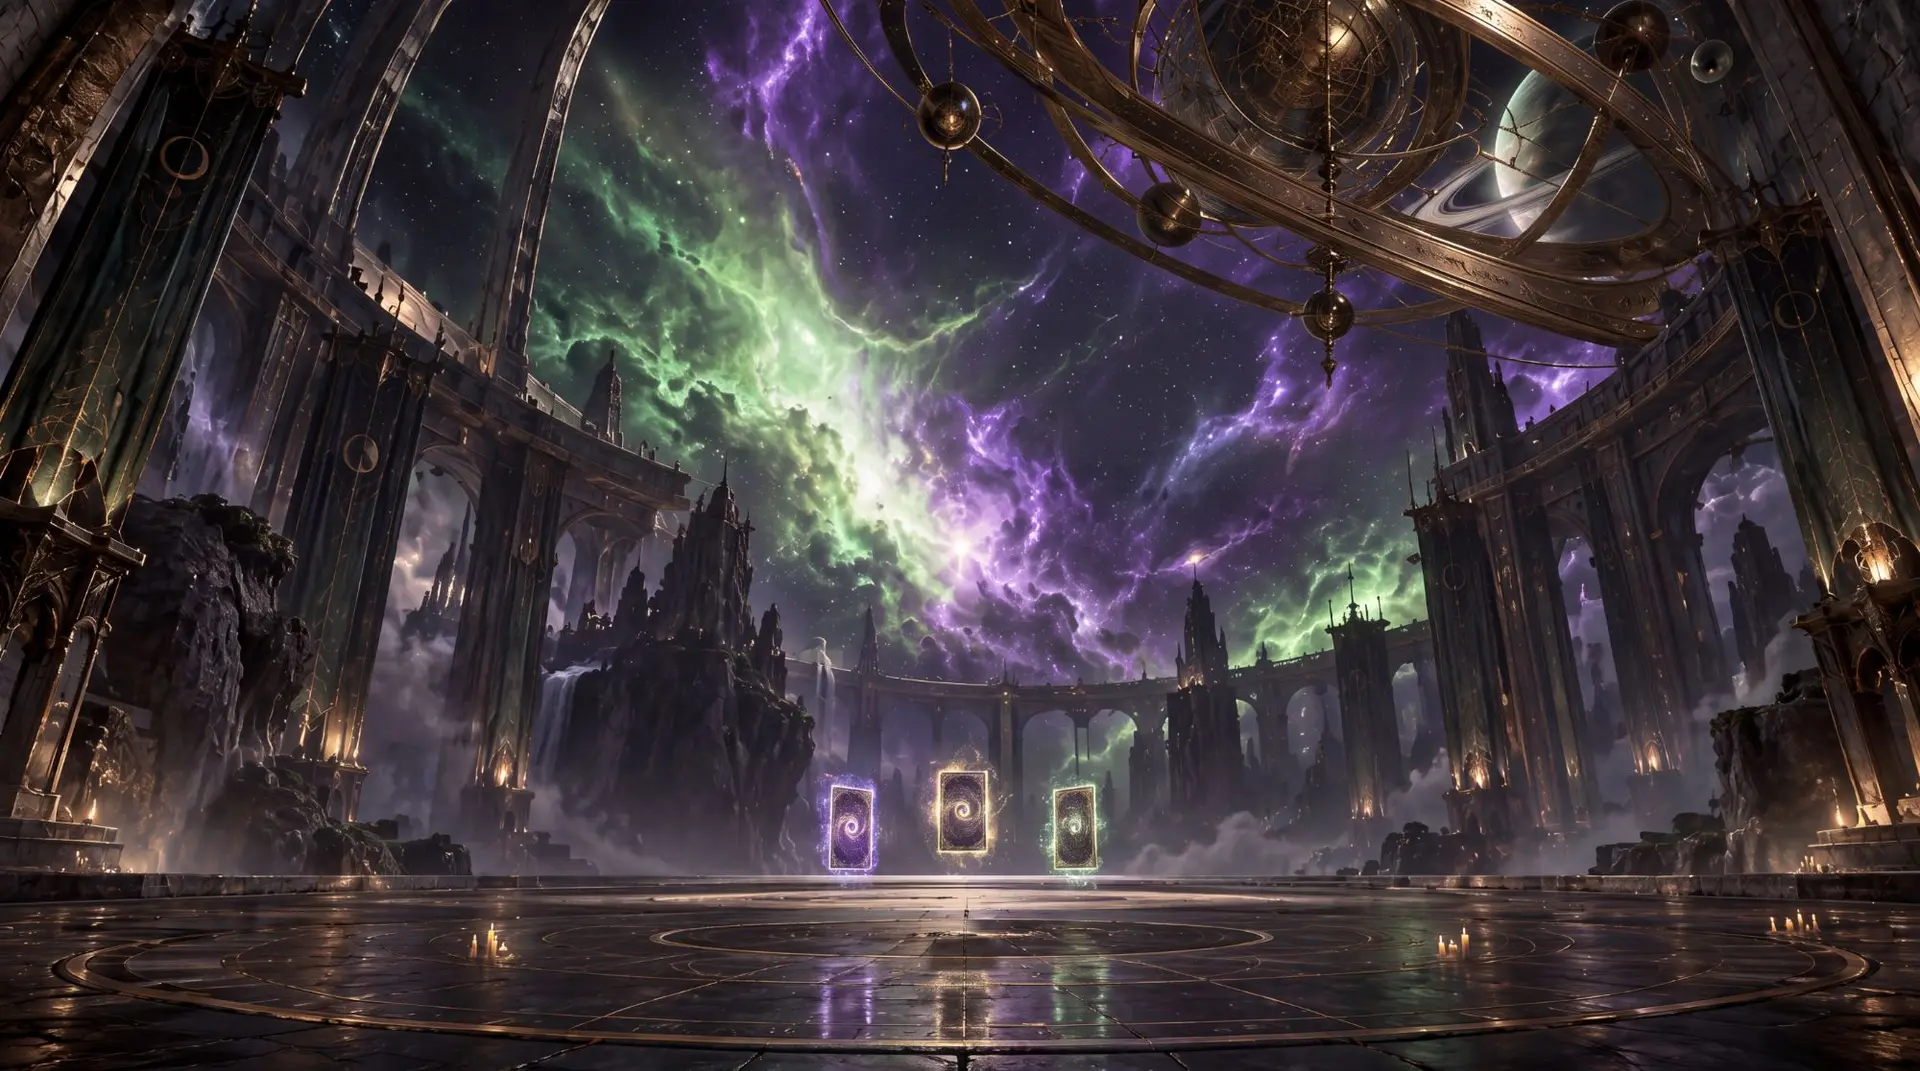
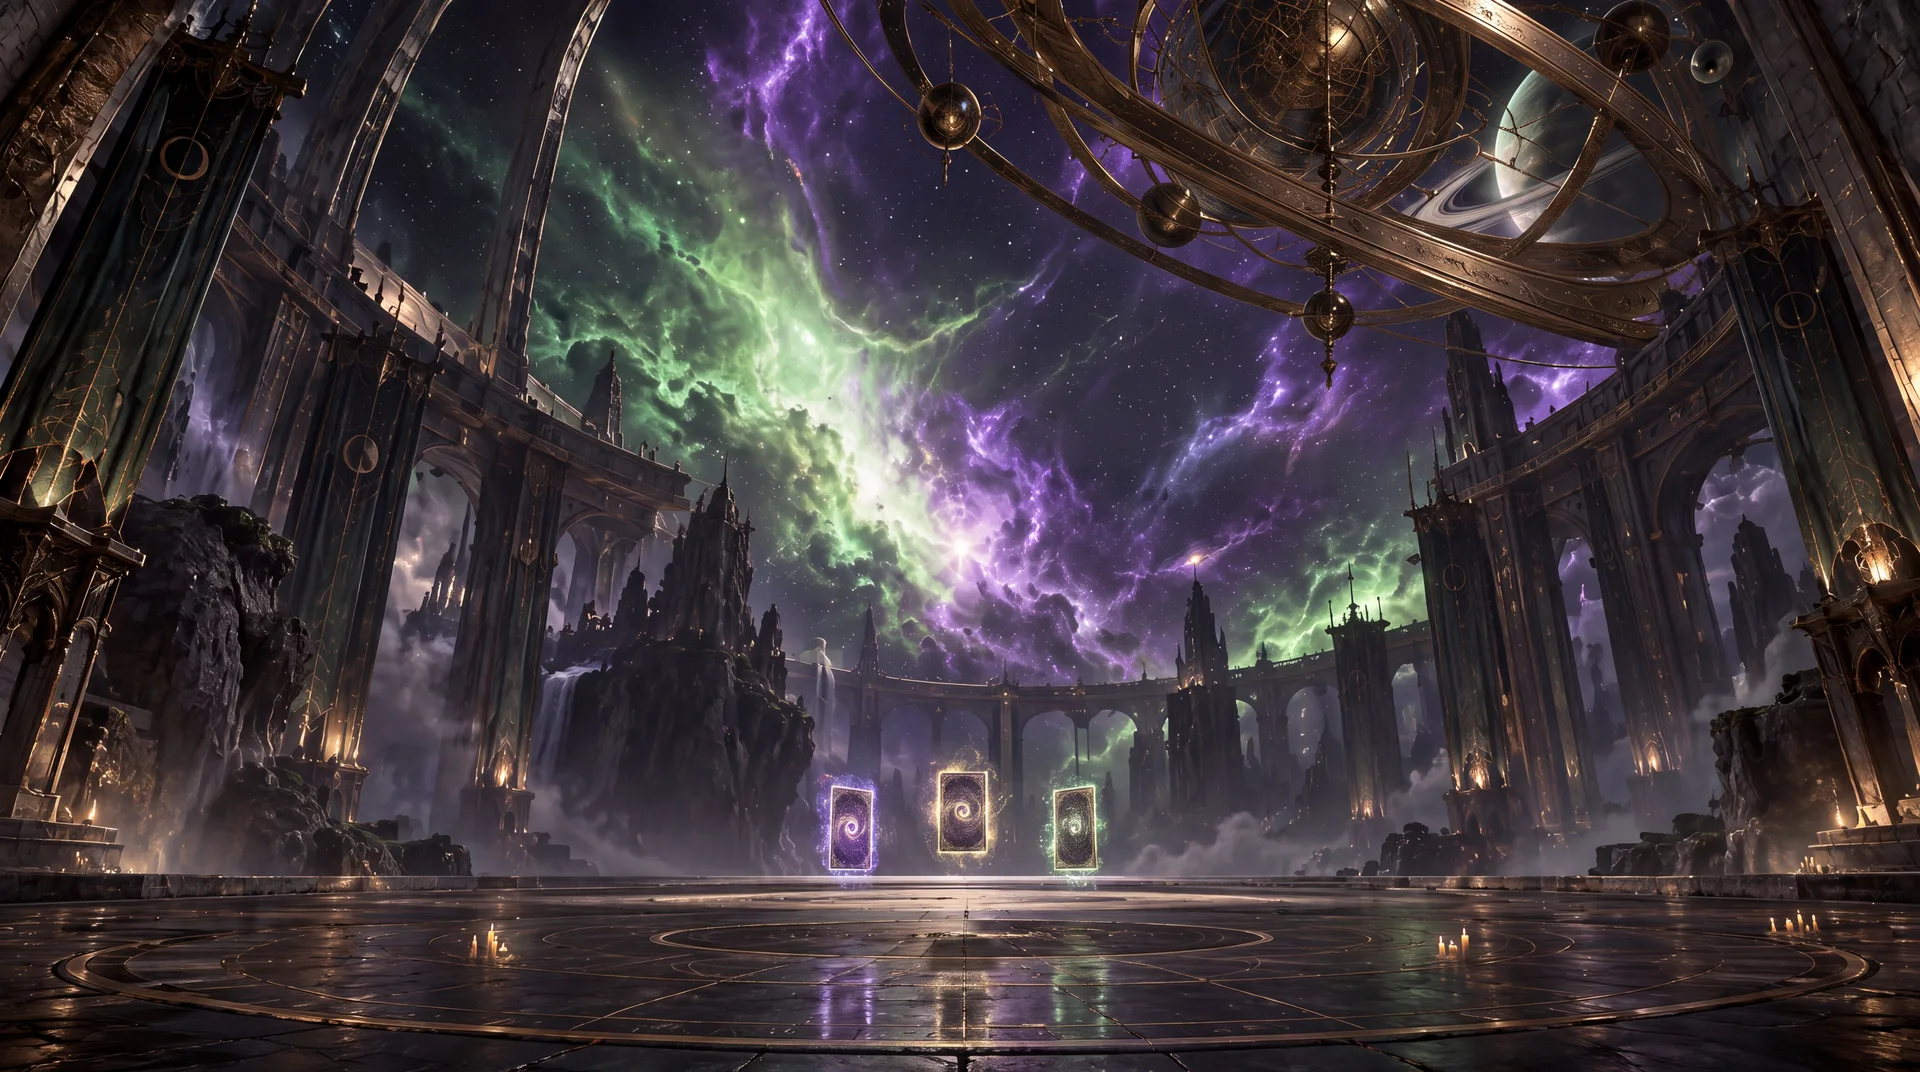
Hall: 4K observatory + mobile art; compact L2 server header

diff --git a/src/theme/glass.css b/src/theme/glass.css
@@ -226,3 +226,6 @@ html[data-design="lobby"] body:has(.gs-server-fullbg) :is(.gs-page-main,main,.gs
 html[data-design="lobby"] body:has(.gs-server-fullbg) .gs-world-backdrop{display:none!important}
 html[data-design="lobby"] body:has(.gs-server-fullbg) .gs-site-footer:not(#lb):not(#gl):not(#p){background:linear-gradient(180deg,rgba(8,10,14,.35),rgba(8,10,14,.72))!important;position:relative;z-index:5}
 html[data-design="lobby"] body .gs-server-fullbg > div:nth-child(2) > *:not(:has(nav,a)){display:none!important}
+html[data-design="lobby"] body .gs-server-fullbg > div:nth-child(2):not(#lb){height:64px!important}
+@media (max-width:767px){html[data-design="lobby"] body .gs-server-fullbg > div:nth-child(2):not(#lb){height:56px!important}}
+html[data-design="lobby"] body .gs-server-fullbg > div:nth-child(3):not(#lb){margin-top:0!important}

diff --git a/index.html b/index.html
@@ -90,7 +90,7 @@
     <script>
       if (location.pathname === '/') {
         for (const [href, srcset, media] of [
-          ['/media/hub/observatory-1920.webp', '/media/hub/observatory-1280.webp 1280w, /media/hub/observatory-1920.webp 1920w, /media/hub/observatory-2000.webp 2000w', '(min-width: 1024px)'],
+          ['/media/hub/observatory-1920.webp', '/media/hub/observatory-1280.webp 1280w, /media/hub/observatory-1920.webp 1920w, /media/hub/observatory-2560.webp 2560w, /media/hub/observatory-3840.webp 3840w', '(min-width: 1024px)'],
           ['/media/hub/observatory-m-720.webp', '/media/hub/observatory-m-720.webp 720w, /media/hub/observatory-m-1080.webp 1080w', '(max-width: 1023px)'],
         ]) {
           const preload = document.createElement('link');

diff --git a/src/components/home/WorldHall.tsx b/src/components/home/WorldHall.tsx
@@ -20,7 +20,7 @@ import { cardSrc, reducedMotion, usePortalFlight } from './portal'
 const WORLDS = ['lineage2', 'minecraft', 'gtarp'] as const
 
 const cardSrcSet = (gameId: string) => `${cardSrc(gameId, 480)} 480w, ${cardSrc(gameId, 960)} 960w`
-const NAVE_SRCSET = [1280, 1920, 2000].map((w) => `/media/hub/observatory-${w}.webp ${w}w`).join(', ')
+const NAVE_SRCSET = [1280, 1920, 2560, 3840].map((w) => `/media/hub/observatory-${w}.webp ${w}w`).join(', ')
 const NAVE_PHONE_SRCSET = '/media/hub/observatory-m-720.webp 720w, /media/hub/observatory-m-1080.webp 1080w'
 
 /** Cards lean towards the pointer: each card reads the pointer relative to its own centre. */

diff --git a/docs/core-progress.md b/docs/core-progress.md
@@ -14,6 +14,7 @@
 - Back-to-top lime button (ToTop.tsx, after 1 screen); catalog promo slot spans the row and hides when empty (no hole in tiles); sticky catalog toolbar dense; worlds menu dense glass; footer «Найти свой сервер» → catalog#search (opens + focuses search), footer links scroll to top.
 - L2 server pages: one shared header = owner sea-cliff fortress at dusk (server-castle-v1 400/800/1600/2000, L2_SERVER_COVER); other worlds keep serverArt. Then: the fortress is a fixed full-page background (.gs-server-bg), hero art layers hidden, footer translucent.
 - Hall of worlds: owner observatory art (hub/observatory-{1280,1920,2000}, phone crop observatory-m-{720,1080} with the painted cards faded out); index.html preload updated; old nave-* kept (account entry still uses nave-1920).
+- Hall: owner 4K observatory (5504px source → 1280/1920/2560/3840) + owner vertical mobile (720/1080). Painted cards still in the desktop art (owner regenerating). L2 server page hero shrunk to 64px (56 phone), title block without negative margin — no empty band.
 - World search + epoch: no outer frame, two glass blocks of 64px, search centred; chronicles open as a dropdown panel under the epoch block (absolute, z above boards), layout does not move (≥768px; phones unchanged).
 - Header and live strip more transparent (rgba(16,18,24,.66→.56)).
 - Checked: 390 and 1440 dark, home/catalog/openings/rating/favorites/server; no horizontal overflow on openings at 390 (scrollWidth 390).
